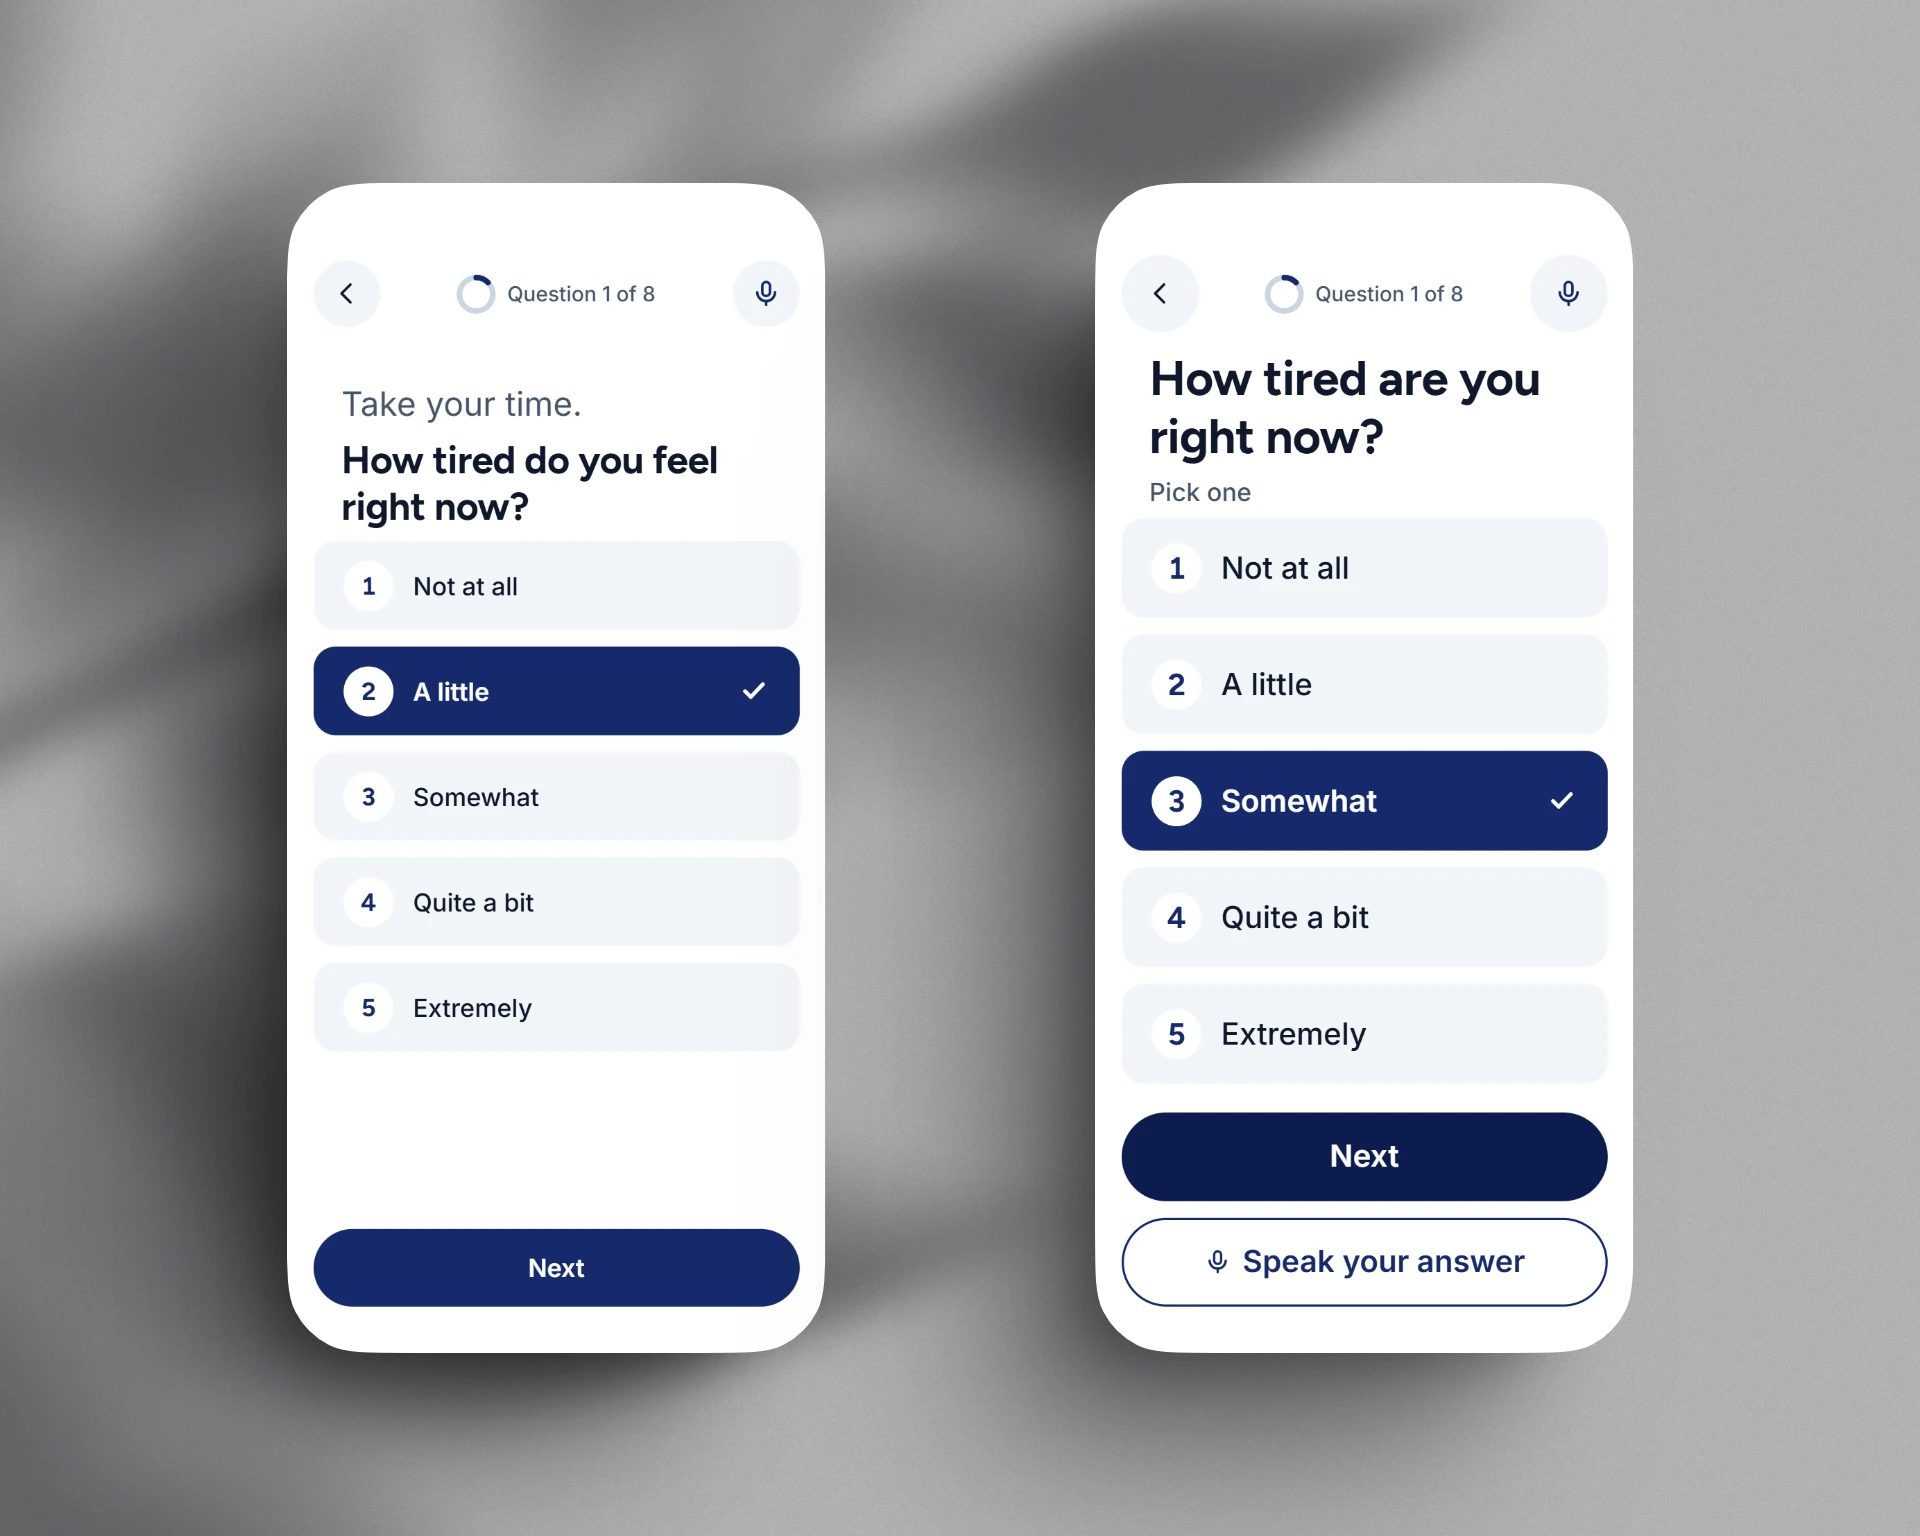
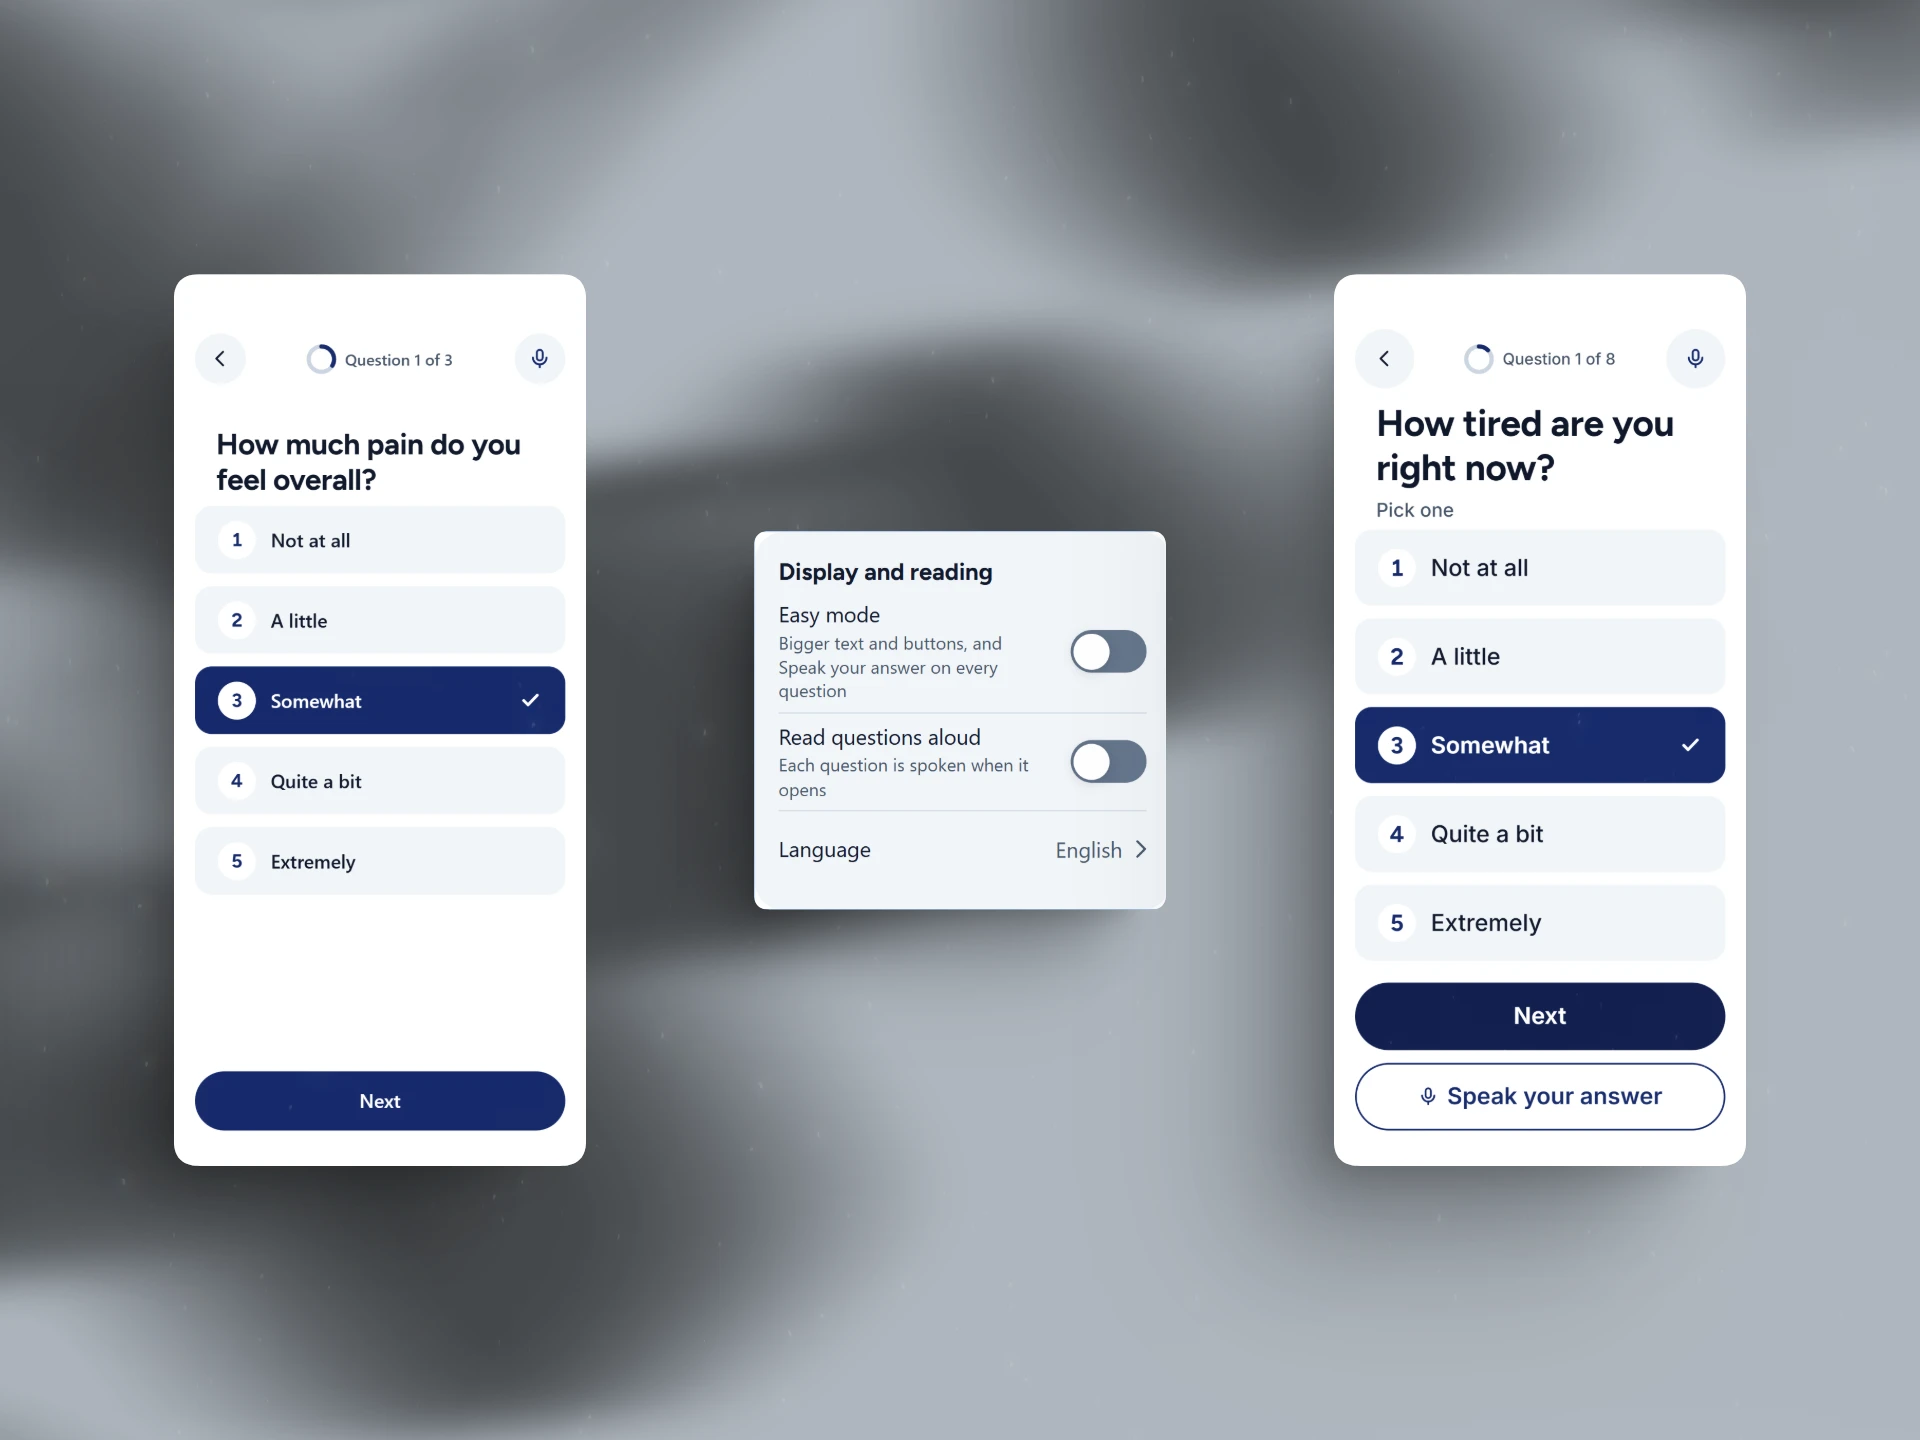
Replace the ePRO Easy Mode image
Claude-Session: https://claude.ai/code/session_0196Ae2T5FvwkwyFddqCoPdG

diff --git a/lib/projects.ts b/lib/projects.ts
@@ -319,7 +319,7 @@ export const projects: Project[] = [
           body: 'Research before this project had already told us who our participants were. I didn’t want a menu full of terms like contrast ratio. Easy Mode is one toggle that turns on high contrast and larger text together.',
           media: {
             src: '/work/epro/easy-mode.webp',
-            alt: 'The same single-select question side by side: the standard view on the left, and Easy Mode on the right with larger type, a “Pick one” hint, bigger option rows, and an added “Speak your answer” button under Next.',
+            alt: 'A single-select question in the standard view on the left, the Display and reading settings card in the middle with the Easy mode and Read questions aloud switches, and the same question in Easy Mode on the right with larger type, a “Pick one” hint, bigger option rows, and a “Speak your answer” button under Next.',
             eyebrow: 'Visual 4: Standard beside Easy Mode',
             caption: 'One switch, two changes. Nobody should need to know the word “accessibility” to get it.',
             variant: 'bleed',
